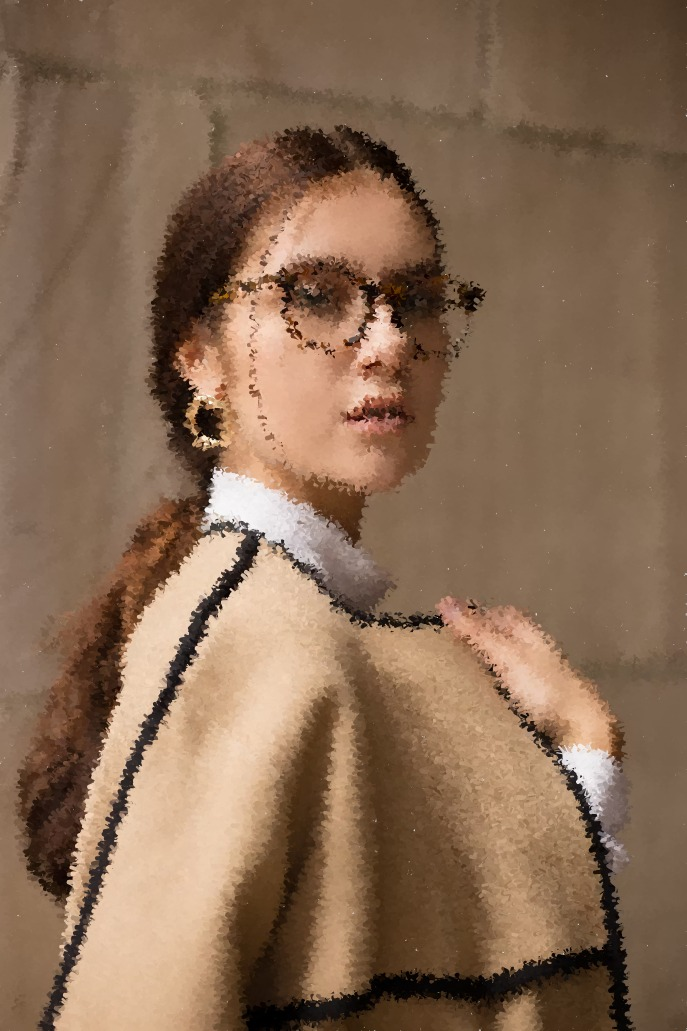
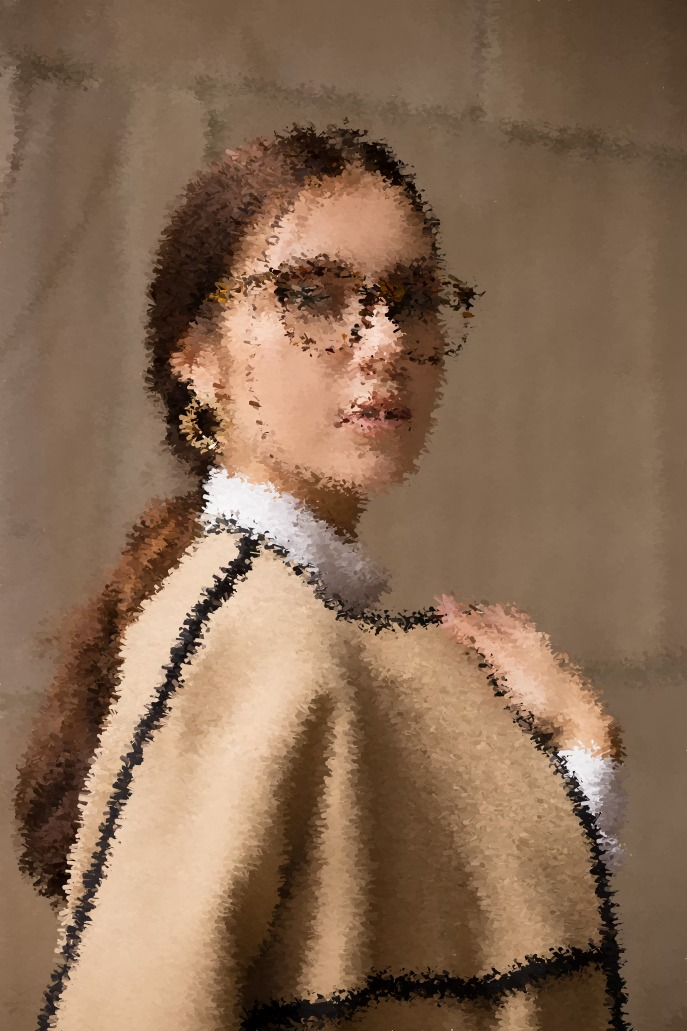
Update readme

diff --git a/sketch.js b/sketch.js
@@ -30,7 +30,7 @@ function setup() {
 			noFill();
 
 			strokeWeight(random(5));
-			line(0, 0, 5, 5);
+			line(0, 0, 8, 8);
 			pop();
 		}
 	}

diff --git a/README.md b/README.md
@@ -1,12 +1,15 @@
-# Hyperdrive
+# Image :arrow_right: Painting
 
-![](/hyper.gif)
+![](/images/process.jpeg)
 
 ## Description
 
-- This is my first experiment with the [p5.js](https://p5js.org/) JavaScript library to make some art.
-- Note: responsibility is still isn't perfect, but on page refresh the elements are resizing
+- Press "s" to save the created painting.
+- Transform any picture into paintings.
+- Another experiment with the [p5.js](https://p5js.org/) JavaScript library.
+- Currently only works with hardcoded image link.
+- Note: make user interface to paste in url.
 
 ## Try it out
 
-- [Jump through space](https://cryptic-deer.github.io/p5.js-hyperdrive/)
+- [Generate art](https://cryptic-deer.github.io/painting-from-image/)
